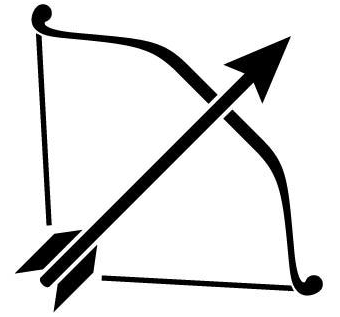
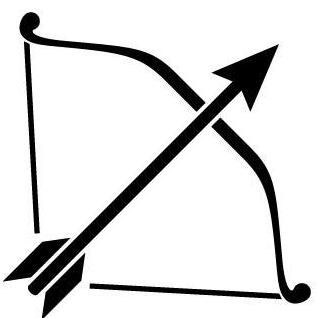
Added picturebox fixed

Changed region(s): [[0.0, 0.0, 0.9937, 1.0], [0.2271, 0.8801, 0.2555, 0.9085], [0.1987, 0.8233, 0.2271, 0.8517]]

diff --git a/Labs/CharacterCreator.Winforms/CharacterCreator.Winforms/CharacterForm.Designer.cs b/Labs/CharacterCreator.Winforms/CharacterCreator.Winforms/CharacterForm.Designer.cs
@@ -53,6 +53,7 @@
             this._rbMale = new System.Windows.Forms.RadioButton();
             this._rbFemale = new System.Windows.Forms.RadioButton();
             this.groupBox1 = new System.Windows.Forms.GroupBox();
+            this.pictureBox1 = new System.Windows.Forms.PictureBox();
             ((System.ComponentModel.ISupportInitialize)(this._errors)).BeginInit();
             ((System.ComponentModel.ISupportInitialize)(this._numStr)).BeginInit();
             ((System.ComponentModel.ISupportInitialize)(this._numAgi)).BeginInit();
@@ -65,6 +66,7 @@
             this.groupBoxEnd.SuspendLayout();
             ((System.ComponentModel.ISupportInitialize)(this._numEnd)).BeginInit();
             this.groupBox1.SuspendLayout();
+            ((System.ComponentModel.ISupportInitialize)(this.pictureBox1)).BeginInit();
             this.SuspendLayout();
             // 
             // labelName
@@ -186,7 +188,7 @@
             this._cbProfession.Name = "_cbProfession";
             this._cbProfession.Size = new System.Drawing.Size(196, 21);
             this._cbProfession.TabIndex = 2;
-            
+            this._cbProfession.SelectedIndexChanged += new System.EventHandler(this.OnCbProffesion);
             this._cbProfession.Validating += new System.ComponentModel.CancelEventHandler(this.OnValidateProfession);
             // 
             // _numStr
@@ -357,6 +359,15 @@
             this.groupBox1.TabStop = false;
             this.groupBox1.Text = "Gender";
             // 
+            // pictureBox1
+            // 
+            this.pictureBox1.Location = new System.Drawing.Point(299, 7);
+            this.pictureBox1.Name = "pictureBox1";
+            this.pictureBox1.Size = new System.Drawing.Size(76, 95);
+            this.pictureBox1.SizeMode = System.Windows.Forms.PictureBoxSizeMode.Zoom;
+            this.pictureBox1.TabIndex = 12;
+            this.pictureBox1.TabStop = false;
+            // 
             // CharacterForm
             // 
             this.AutoScaleDimensions = new System.Drawing.SizeF(6F, 13F);
@@ -364,6 +375,7 @@
             this.AutoValidate = System.Windows.Forms.AutoValidate.EnableAllowFocusChange;
             this.BackColor = System.Drawing.SystemColors.ControlLightLight;
             this.ClientSize = new System.Drawing.Size(376, 381);
+            this.Controls.Add(this.pictureBox1);
             this.Controls.Add(this.groupBox1);
             this.Controls.Add(this.groupBoxEnd);
             this.Controls.Add(this.groupBoxDex);
@@ -402,6 +414,7 @@
             ((System.ComponentModel.ISupportInitialize)(this._numEnd)).EndInit();
             this.groupBox1.ResumeLayout(false);
             this.groupBox1.PerformLayout();
+            ((System.ComponentModel.ISupportInitialize)(this.pictureBox1)).EndInit();
             this.ResumeLayout(false);
             this.PerformLayout();
 
@@ -433,5 +446,6 @@
         private System.Windows.Forms.RadioButton _rbFemale;
         private System.Windows.Forms.RadioButton _rbMale;
         private System.Windows.Forms.GroupBox groupBox1;
+        private System.Windows.Forms.PictureBox pictureBox1;
     }
 }

diff --git a/Labs/CharacterCreator.Winforms/CharacterCreator.Winforms/Properties/Resources.Designer.cs b/Labs/CharacterCreator.Winforms/CharacterCreator.Winforms/Properties/Resources.Designer.cs
@@ -59,5 +59,65 @@ namespace CharacterCreator.Winforms.Properties {
                 resourceCulture = value;
             }
         }
+        
+        /// <summary>
+        ///   Looks up a localized resource of type System.Drawing.Bitmap.
+        /// </summary>
+        internal static System.Drawing.Bitmap Archer {
+            get {
+                object obj = ResourceManager.GetObject("Archer", resourceCulture);
+                return ((System.Drawing.Bitmap)(obj));
+            }
+        }
+        
+        /// <summary>
+        ///   Looks up a localized resource of type System.Drawing.Bitmap.
+        /// </summary>
+        internal static System.Drawing.Bitmap Blank {
+            get {
+                object obj = ResourceManager.GetObject("Blank", resourceCulture);
+                return ((System.Drawing.Bitmap)(obj));
+            }
+        }
+        
+        /// <summary>
+        ///   Looks up a localized resource of type System.Drawing.Bitmap.
+        /// </summary>
+        internal static System.Drawing.Bitmap Fighter {
+            get {
+                object obj = ResourceManager.GetObject("Fighter", resourceCulture);
+                return ((System.Drawing.Bitmap)(obj));
+            }
+        }
+        
+        /// <summary>
+        ///   Looks up a localized resource of type System.Drawing.Bitmap.
+        /// </summary>
+        internal static System.Drawing.Bitmap Rogue {
+            get {
+                object obj = ResourceManager.GetObject("Rogue", resourceCulture);
+                return ((System.Drawing.Bitmap)(obj));
+            }
+        }
+        
+        /// <summary>
+        ///   Looks up a localized resource of type System.Drawing.Bitmap.
+        /// </summary>
+        internal static System.Drawing.Bitmap Tank {
+            get {
+                object obj = ResourceManager.GetObject("Tank", resourceCulture);
+                return ((System.Drawing.Bitmap)(obj));
+            }
+        }
+        
+        /// <summary>
+        ///   Looks up a localized resource of type System.Drawing.Bitmap.
+        /// </summary>
+        internal static System.Drawing.Bitmap Wizard {
+            get {
+                object obj = ResourceManager.GetObject("Wizard", resourceCulture);
+                return ((System.Drawing.Bitmap)(obj));
+            }
+        }
     }
 }

diff --git a/Labs/CharacterCreator.Winforms/CharacterCreator.Winforms/CharacterForm.cs b/Labs/CharacterCreator.Winforms/CharacterCreator.Winforms/CharacterForm.cs
@@ -18,6 +18,7 @@ namespace CharacterCreator.Winforms
 {
     public partial class CharacterForm : Form
     {
+       
         public CharacterForm()
         {
             InitializeComponent();
@@ -153,6 +154,20 @@ namespace CharacterCreator.Winforms
 
         }
 
-       
+        private void OnCbProffesion( object sender, EventArgs e )
+        {
+            
+            if (_cbProfession.Text == "Fighter")
+                pictureBox1.Image = Properties.Resources.Fighter;
+            if(_cbProfession.Text == "Archer")
+             pictureBox1.Image = Properties.Resources.Archer;
+            if (_cbProfession.Text == "Rogue")
+                pictureBox1.Image = Properties.Resources.Rogue;
+            if (_cbProfession.Text == "Tank")
+                pictureBox1.Image = Properties.Resources.Tank;
+            if (_cbProfession.Text == "Wizard")
+                pictureBox1.Image = Properties.Resources.Wizard;
+            
+        }
     }
 }
